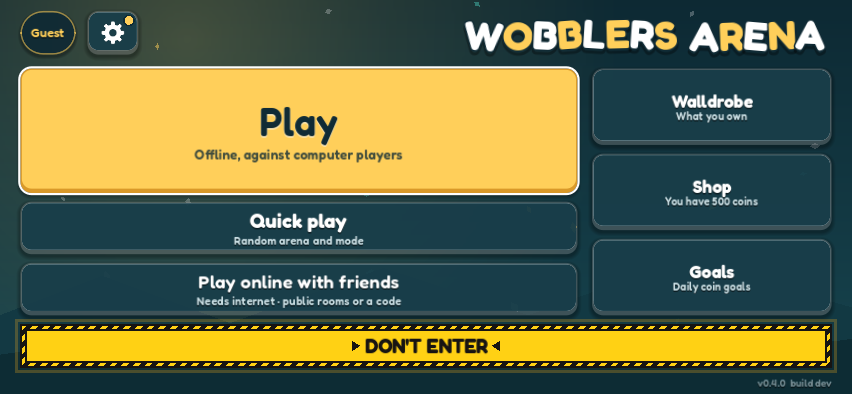
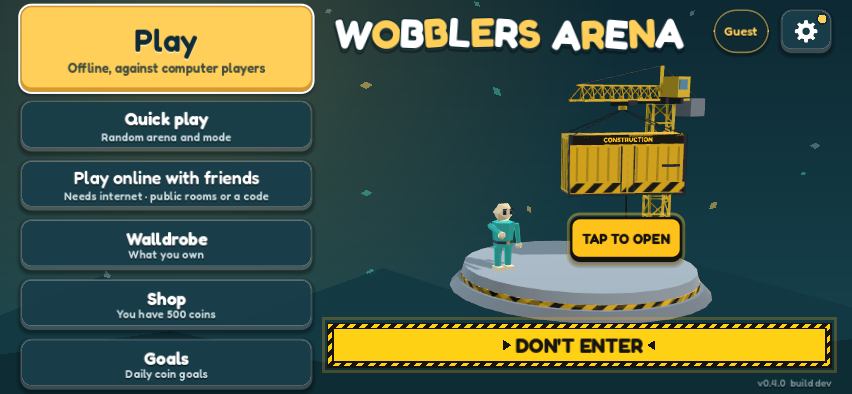
docs(title): TITLE.md, DLC and UI notes, regenerated title screenshots

diff --git a/docs/TITLE.md b/docs/TITLE.md
@@ -1,0 +1,110 @@
+# Title screen: menu rail, 3D stage, DLC showcase
+
+The title (`godot/scenes/main.tscn`, `godot/scripts/main.gd`) is a **left menu rail** beside a **3D stage**.
+No gameplay, combat or physics code is involved; the one hook in the match is the `trial` flag described below.
+
+```
+landscape                                         portrait
++-----------+-----------------------------+       +-----------------------+
+| Play      | WOBBLERS ARENA    (you) (⚙) |       | WOBBLERS ARENA (you)(⚙)|
+| Quick play|                             |       |        3D stage       |
+| Play onl. |        3D stage             |       |      DON'T ENTER      |
+| Walldrobe |   wobbler  crane+container  |       | Play                  |
+| Shop      |                             |       | Quick play ... Goals  |
+| Goals     | [       DON'T ENTER       ] |       +-----------------------+
++-----------+-----------------------------+
+```
+
+| Node | What |
+| --- | --- |
+| `Background` | `ui/title_bg.gd`, the drawn sky. With the stage (`stage_3d`) it no longer draws its own crane / props on the Construction title. |
+| `Showcase` | `ui/title_showcase.gd`: the stage's picture, full screen, behind the controls. |
+| `Safe/Rail` | Play, Quick play, Play online with friends, Walldrobe, Shop, Goals. Same routes as before. |
+| `Safe/Col` | `Top` (logo, account chip, gear), `Body/Home` (`Stage`: the slot the scene is framed in, and the `Construction` DON'T ENTER sign), `Body/Online`, `Tip`, `Build`. |
+| `ShowcaseUI` | `TitleShowcase.overlay`: the TAP TO OPEN tag; Back, the pack header and the bar while a container is open. |
+
+`apply_safe_area()` lays it out: in landscape the rail is a strip 36 % of the safe width (300 to 430 px) and the column
+takes the rest; in portrait the column is on top and the rail under it (thumbs). `_unit()` is the touch-size factor: 1
+in landscape (UiScale already keeps 60 canvas px at 44 pt), about 2.4 in portrait, where the same 1170 px canvas shows
+on a third of the points. `_fit_rail()` shrinks a button's big line to the rail and shows its small line only when it
+fits on one line (it is the tooltip too); `_fit_logo()` gives the logo what the chip and the gear leave, on two lines
+when a long account name leaves very little. Other pages (wizard, Walldrobe, online tab) hide the rail and the stage
+(`_home_layers()`), and the stage stops rendering under Settings, Goals and the Construction hub.
+
+## The stage (`ui/showcase_stage.gd`)
+
+`ShowcaseStage` extends `CharacterStage`: the same lights and the same real Wobbler in the player's class, outfit, hat
+and colour. Added: a round concrete pedestal with a hazard kerb, a tower crane, and the pack's container on the hook.
+Built in code from boxes: the crane, the container shell and each door are one merged vertex-colour mesh each; a rack
+weapon is the Wobbler's own fused held-weapon mesh (`Wobbler._weapon_visual`), so the rack shows exactly what a match
+shows; one unshadowed lamp inside the container; the landing dust is eight pooled low-poly blobs. The render target is
+the window's pixels, capped at 2.2 MP (`TitleShowcase.MAX_PIXELS`), MSAA by tier.
+
+The whole scene is posed from five numbers (`lower`, `doors`, `cam_k`, `hoist`, `pop`) in `apply_pose()`. The camera
+frames a box of metres inside a screen rectangle (`frame_pos`): the idle scene inside the `Stage` slot, the open
+container between the pack header and the bottom bar. Picking is plain ray maths against the container's and the rack
+cells' boxes (`pick`), with no physics bodies; `project` / `cell_rect` give the screen positions back. Portrait sets
+`compact`: the wobbler stands closer and the doors open square, so a rack cell is still 44 pt wide.
+
+## The showcase (`ui/title_showcase.gd`)
+
+| State | What happens | Input |
+| --- | --- | --- |
+| `IDLE` | The container hangs shut; the "TAP TO OPEN" tag dangles under it. | The tag is a real Button (mouse, touch, keyboard, gamepad, screen reader). A tap on the container itself is ray-picked (`tap_at`, forwarded from the `Stage` slot). |
+| `OPENING` | The rail and the column fade (`ui_changed`), the camera moves in, the crane lowers the container (dust, `land` + `clink`), the latch lifts, both doors swing open. | Back reverses it at once. Everything else is dropped. |
+| `OPENED` | Racks: the pack's weapons and an arena badge. A tap (ray) or focus (one proxy Button per cell) puts the weapon in the wobbler's hand and the pack's hat on its head. | Back, `‹ SWAP PACK` / `SWAP PACK ›` (two packs or more), `TEST IN <ARENA>`, `UNLOCK PACK` or an OWNED badge. |
+| `SWAPPING` | Doors shut, the container is hoisted out of the picture, the next pack's comes down and opens. | Swap spam is ignored; a Back is remembered and runs after the landing. |
+| `CLOSING` | Doors shut, the container goes back up, the camera and the title return. | A tap on the tag re-opens from where it is. |
+
+One tween drives the pose numbers from wherever they are, so open and back can interrupt each other half-way; a
+full-screen catcher keeps taps off the title while not `IDLE`; `snap()` jumps to a resting state (used when another
+page opens mid-animation, and by screenshots). Back is the Back button, Escape / controller B (`ui_cancel`) and
+Android's back gesture: `main.go_back()` closes the container before the pages under it.
+
+The weapon preview is **only a preview**: nothing is written to Settings or Save. The game has no loadout for crate
+weapons (they come from crates in a Construction match), so there is nothing to equip; an owned pack shows OWNED.
+`UNLOCK PACK` opens the existing Construction hub (`open_hub()`: coins or the code), and the bar refreshes when the
+profile changes.
+
+## Packs (`dlc/dlc_pack_data.gd`, `dlc/dlc_packs.gd`)
+
+`DLCPackData` is a Resource: `pack_id` (the `data/extra/<id>/pack.json` id), `display_name`, `subtitle`,
+`accent_color`, `weapon_ids`, `arena_id`, `container_style`, `badge_icon` (the preview hat), `test_mode`,
+`unlock_kind`. `is_unlocked` is a getter that asks the profile every time (`DlcUnlock.owned()` for `"construction"`),
+never a stored bool. `DLCPacks.PATHS` lists the `.tres` files (an explicit list: a directory scan of `res://` is not
+reliable in an exported build); a pack whose weapons or arena do not exist in the build is skipped with a warning.
+
+To add a pack: make `godot/dlc/packs/<id>.tres`, add its path to `DLCPacks.PATHS`, add an `unlock_kind` branch in
+`DLCPackData.unlocked()` if it has its own unlock, and add its strings to `godot/i18n/src/`. The showcase code does
+not change. With one pack the swap arrows are hidden.
+
+## Test drive (`main.play_trial`, `world.trial`)
+
+`TEST IN SITE YARD` starts an offline match on the pack's `arena_id` in its `test_mode` with two easy bots, no K.O.
+limit and every pack weapon on the floor round the start (`Pickups.place_perm`: they come back 2.5 s after a pick).
+It is open to players who do not own the pack, so `world.trial` skips every `Save` call of a match: no coins, stats,
+goals, history or ranking, and the unlock is never touched.
+
+## Tests and screenshots
+
+- `npm run test:godot-title` (`godot/tests/title_showcase_test.gd`): the pack data, every rail route, 44 pt targets
+  at 852x393 / 667x375 / 390x844, the state machine under spammed input with a second test-only pack, the test drive.
+- `npm run test:godot-ui` checks the rail and the column on the `title` screen at every size and in French and
+  Japanese (`_title_home`).
+- `sh tools/shoot-godot-ui.sh "" title title-site title-open title-open-owned title-weapon` writes
+  `docs/style/godot-ui-title*.png` (`--pick N` chooses the rack cell for `title-weapon`).
+
+## Performance
+
+Counted on the dev machine (an Apple-silicon Mac, 1704x786 window; the whole title, 2D included; the same on Forward+,
+Mobile and Compatibility):
+
+| | no stage | idle stage | open container |
+| --- | --- | --- | --- |
+| draw calls per frame | 145 | 193 | 135 to 141 |
+| triangles per frame | 5.9 k | 13.1 k | 13.5 k |
+
+So the stage costs about 50 draw calls and 7 k triangles, shadow pass included. Whole-frame times with vsync off were
+between 1.5 and 7.5 ms on all three renderers (130 fps or more) and too noisy to give a per-renderer cost.
+**Not measured on a device**: an iPhone and the web export in a phone browser still need a real run (the perf overlay,
+Settings > Graphics, works on the title).

diff --git a/docs/GODOT_ARCH.md b/docs/GODOT_ARCH.md
@@ -69,6 +69,7 @@ How the pieces fit since the integration track (`npm run test:godot-integration`
 - **State keys the Wobbler gets** (`Fighter.visual_state`): the contract keys from `FighterState.to_visual()` with `yaw` = `face_yaw` (the wobbler smooths toward it like `animate`), plus `wish` (Vector2 move input, drives the stride), `trap` (bool, `trap_t > 0`), `fall_side` (+1/-1 from Combat, so the K.O. fall matches), `flash` (seconds left, Combat sets 0.12 on a hit), `skin`/`hat`/`color` (the look), `rage` (float, `rage_t` seconds left, drives the angry face), `off_stage` (bool, airborne below the arena floor and not dead, drives the panic eyes). `stiff` is not sent (the wobbler takes it from the held weapon).
 - **`world/world.gd`**: builds the map, a MatchSim and one Fighter per fighter; per fixed step (`sim_step`): `sim.step` -> `Fighter.sim_present` (animation points) -> `sim.sweep()` -> the animation-only Combat events, then per rendered frame (`frame`): camera -> sim steps from the accumulator -> `present` (visuals only) -> the remaining Combat events to effects (damage numbers, puffs, tracers, K.O. burst, crates with a beam, kill feed, toasts) -> HUD (HP bar against the class max, weapon + ammo, K.O. count + clock). `tick(dt)` is the whole frame (tests call it with `auto_run = false`). Exports / `--` args: `map_id` (`--map=`), `player_class` (`--class=`, default Settings `class`), `bot_count` (`--bots=`), `rng_seed` (`--seed=`), `hp_setting`, `difficulty` (bot skill, default Settings `difficulty`).
 - **`world/follow_camera.gd` `FollowCamera`**: the web `updateCamera` (orbit yaw/pitch, shoulder offset, aim zoom, pull-in on solids) plus auto-centre: after `cam_center_dist` m (Settings, default 5) of walking since the last manual look / aim / fire, yaw eases to the travel direction (the character's facing) and pitch to -0.2 with a critically damped spring (SmoothDamp 0.18 s, 0.11 s sprinting, ~0.4-0.5 s to settle, no overshoot), then keeps following while the stick is held. Off with Settings `cam_auto_center` (gear sheet toggle); never while aiming, firing or a look touch is down. The stick maps against `move_basis()`, latched while the stick is held in one direction, so the turning camera never bends the walk. Test: `npm run test:godot-camera`.
+- **Title layout**: a left menu rail and a 3D stage with the DLC showcase, see [TITLE.md](TITLE.md).
 - **Title + setup wizard** (`scripts/main.gd`, `ui/setup_wizard.gd` `SetupWizard`): the title is the logo, one big "Play" (offline, against computer players), one "Play online with friends" (sub line: needs internet / the room state while connected; opens the online panel), a chip saying "Guest" or "Signed in as NAME", a gear (settings sheet: Show FPS) and a small tip. Play opens the wizard, five steps: 1 Game type (`ModeRules.PLAYABLE` + construction, read from code, plus the Moving floor row) -> 2 Arena (cards for `SetupWizard.maps_for(mode)`, so the list follows the game type) -> 3 Players (1..7 bots, team / Chaos modes locked, Team Deathmatch odd counts; bot skill) -> 4 Character (`Content.classes`) -> 5 Start (summary rows that jump back + Start: `main.play_offline`). The word "Fighter" is not used in the UI. Picks save to Settings at once (`mode`, `offline_map`, `dyn`, `bots`, `difficulty`, `class`); a game type that does not allow the arena moves it to the nearest allowed one and says so in the header. Card grids are `ui/drag_scroll.gd` `DragScroll`: drag/fling with inertia, a tap (< 14 px movement) picks, a drag never does, wheel on PC, edge fades + a wide scroll bar, the selected card is scrolled into view when a page opens. Character cards show real 3D renders from `ui/character_stage.gd` `CharacterStage`: one shared SubViewport with the Wobbler (Settings outfit/hat/colour), MapBuilder sun with shadow + hemisphere ambient + rim light; each class is baked once into a texture, only the selected card is live (slow turn), and the stage renders only while the Character page is shown. Built in code; screenshots `docs/style/godot-wizard-*.png`, `godot-ui-title*.png` (`sh tools/shoot-godot-ui.sh`).
 - **Tests / shots**: `tests/integration_test.gd` (`npm run test:godot-integration`): 30 s on arena, scripted player + 3 bots; K.O.s, respawn, HP range, finite positions, crate + SMG, no node leaks. `sh tools/shoot-godot-slice.sh` renders `docs/style/godot-slice-{melee,smg,wide}.png`.
 

diff --git a/docs/CONSTRUCTION_DLC.md b/docs/CONSTRUCTION_DLC.md
@@ -168,7 +168,8 @@ built by `WeaponModels.build` from LowPoly primitives; `KEYS` still mirrors shar
 Screenshots: `godot --path godot --resolution 1280x720 --script res://tests/site_shots.gd -- --no-save --out DIR [--seeds 1,2,3] [--what sites|tools|ppe]`.
 ## The DLC front end (Unit C: unlock, hub, title banner)
 
-- **Entry**: a wide hazard-tape banner on the title (below Walldrobe / Shop / Goals, drawn in code, `dlc/construction/construction_style.gd`) opens the hub (`construction_hub.gd`). Construction is no longer a game type card in the setup wizard; the mode id and `ModeRules.OFFLINE_ONLY` are unchanged.
+- **Showcase**: the title's 3D stage holds the pack's container on a crane; tapping it opens the racks (the 9 tools, a Site Yard badge), with `TEST IN SITE YARD` (a test drive for everyone, nothing saved) and `UNLOCK PACK` (this hub). See [TITLE.md](TITLE.md); the pack is `godot/dlc/packs/construction.tres`.
+- **Entry**: a wide hazard-tape banner on the title (under the 3D stage, right of the menu rail; before the title redesign: below Walldrobe / Shop / Goals, drawn in code, `dlc/construction/construction_style.gd`) opens the hub (`construction_hub.gd`). Construction is no longer a game type card in the setup wizard; the mode id and `ModeRules.OFFLINE_ONLY` are unchanged.
 - **Unlock** (`dlc_unlock.gd`, state in `dlc_save.gd`): 1500 coins (`DlcUnlock.PRICE`) or the developer code. Save blob key `dlc` = `{owned, arcade_best{easy,normal,nightmare}, arcade_clears{easy,normal,nightmare}, bonus}`, written only once the DLC is touched (old saves load as locked; the web game ignores the key). The code is never stored or logged: only `sha256("wobblers-arena-dlc-v1:" + code)` is compared with `DEV_HASH`. A right code unlocks the DLC, every outfit, emote and class (secret ones too), pays 5000 coins once and adds `dev` to the wallet codes; three wrong tries start a 1.5 s cooldown. The code field is on the hub (Enter code) and in Settings > About (tap the version line 7 times).
 - **Hub**: Classic (pre-match card: bots 1..7 default 7, bot skill, site seed Random / Re-roll, Start) and Arcade ("Coming soon" until `res://dlc/construction/arcade_manager.gd` exists; the hub emits `arcade_requested` for the arcade manager to hook). Start writes the Settings keys `mode = construction`, `bots`, `difficulty`, `offline_map` (`sitegen` when that map is registered, else `siteyard`) and `site_seed` (0 = a new random site every match), then calls `main.play_offline({...})`.
 - Tests: `npm run test:godot-dlc-ui` (`godot/tests/dlc_ui_test.gd`), plus the `dlc-*` screens in `ui_layout_test.gd`.

diff --git a/docs/UI_REVIEW.md b/docs/UI_REVIEW.md
@@ -11,6 +11,7 @@ Goal: every screen reads at a glance on a phone held in landscape. Nothing overl
 - No label is set below `UiTheme.MIN_FONT` (14 px), and no visible text is truncated (ellipsis, clipped line, over-long wrap).
 - A busy bar (title top row and cards row, wizard footer and header, Walldrobe header and footer) holds at most 4 buttons.
 - The checks also run in Francais and Japanese on the key screens.
+- The title's menu rail is a vertical list of exactly six buttons, not a bar: it is counted on its own, must never overlap the column beside it, and the stage's TAP TO OPEN tag must stay clear of every other control (`_title_home`). See [TITLE.md](TITLE.md).
 
 ## What changed
 
